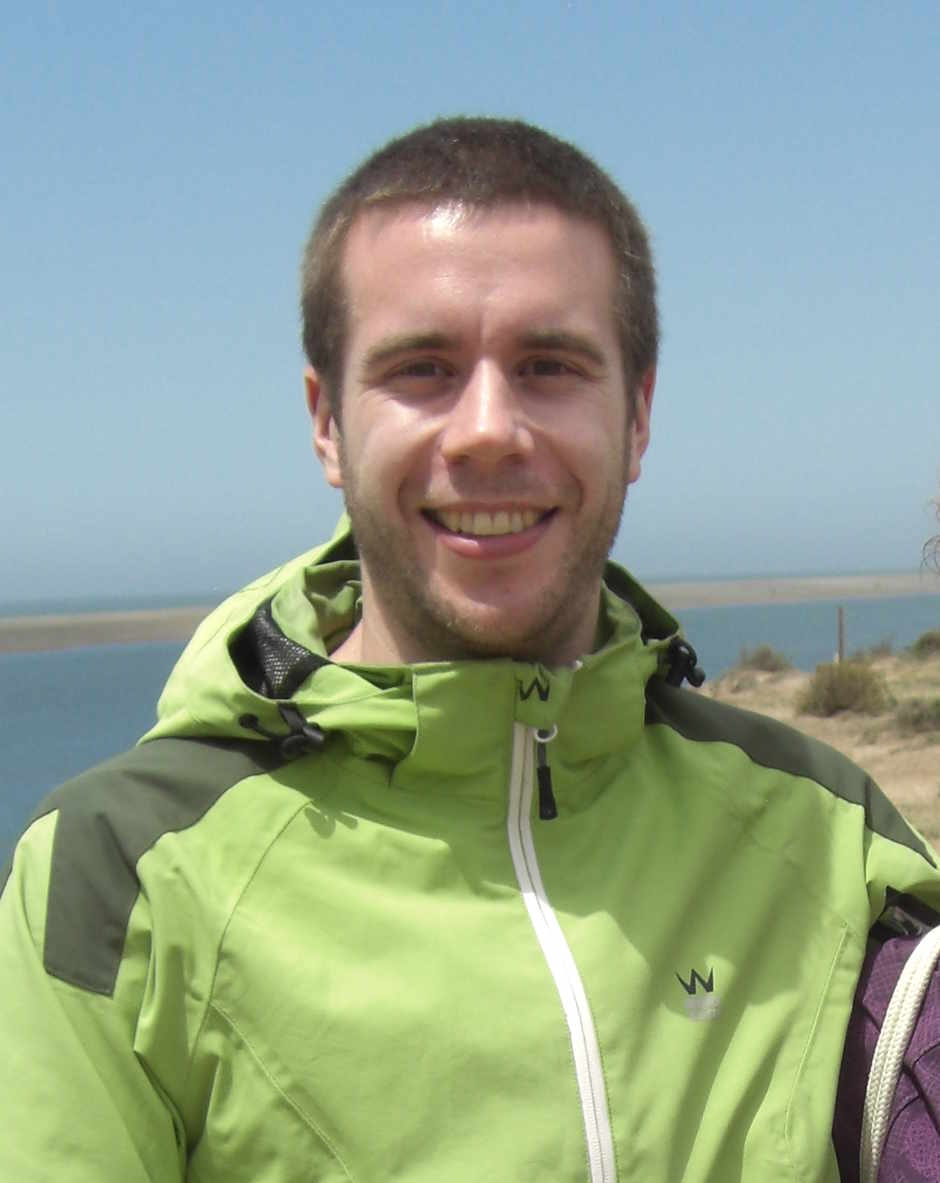
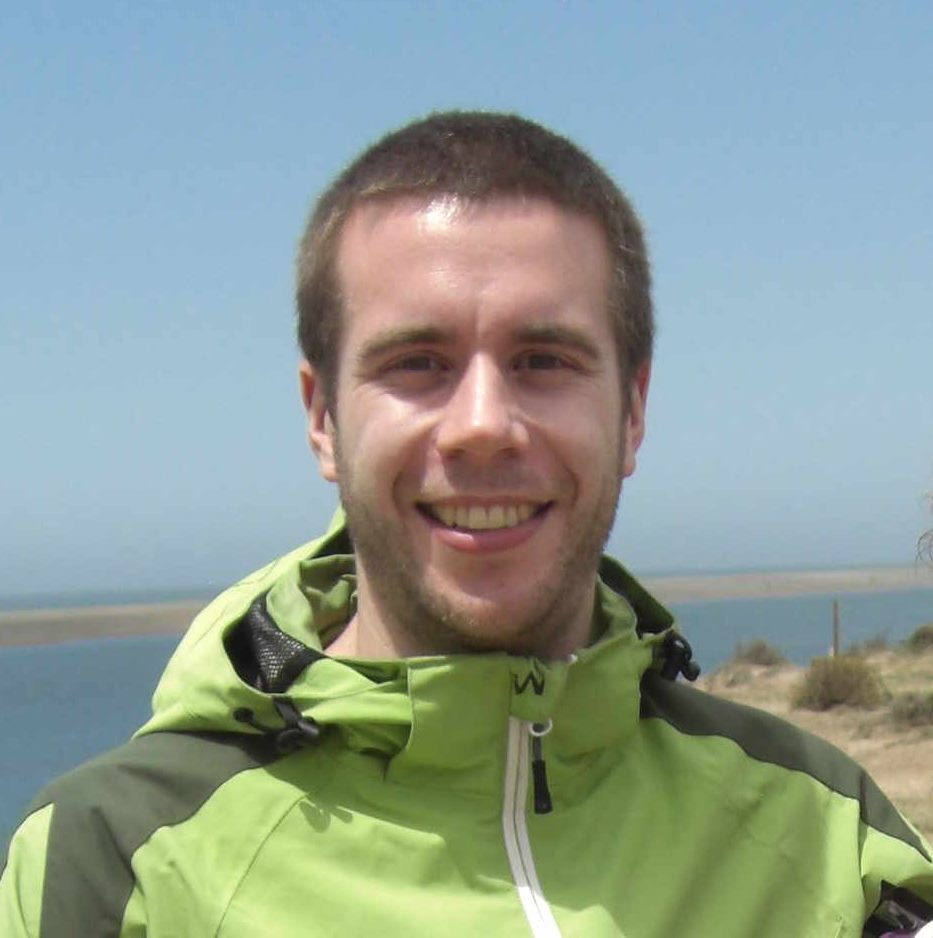
fotos verkleienrt

diff --git a/_posts/2000-01-01-me.md b/_posts/2000-01-01-me.md
@@ -5,7 +5,7 @@ color: black
 style: center
 ---
 
-<img src="img/CIMG2510.png" alt="(c) David Lindenthaler" title="Me, (c) David Lindenthaler" style="width: 40%;" />
+<img src="img/CIMG2510.jpg" alt="(c) David Lindenthaler" title="Me, (c) David Lindenthaler" style="width: 40%;" />
 
 # David Lindenthaler
 {: .text-gray}
